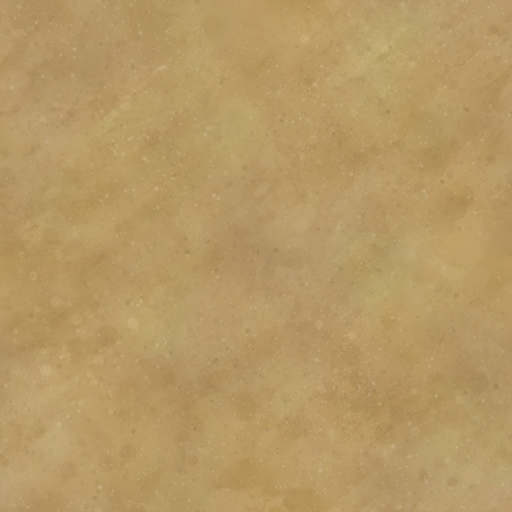
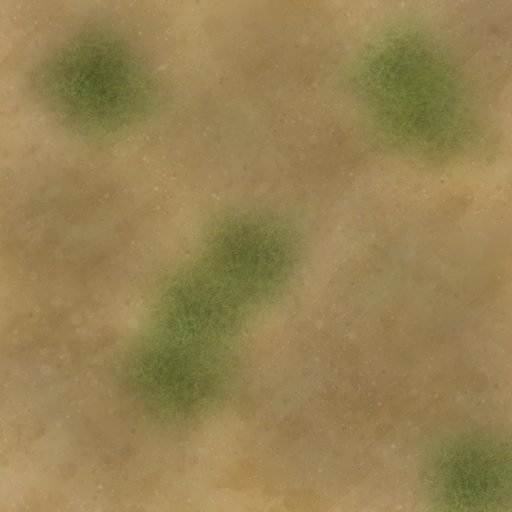
use specular intensity of material

diff --git a/OpenGLFramework/main.cpp b/OpenGLFramework/main.cpp
@@ -146,15 +146,12 @@ public:
             
             texture_ = std::make_shared<Texture>(Image("pattern.png"));
             
-            Texture tex(Image("pattern.png"));
-            Material mat(tex, 7, 20);
-            
-            Texture tex2(Image("plain.png"));
-            Material mat2(tex2, 7, 20);
+            Material colorful(Image("pattern.png"), 7, 10);
+            Material sand(Image("sand.png"), 0, 0);
             
             Mesh pyramid = primitives::makePyramid();
             std::shared_ptr<Node> node = std::make_shared<Node>();
-            node->addComponent(std::make_shared<RenderComponent>(GeometryObject(pyramid), mat));
+            node->addComponent(std::make_shared<RenderComponent>(GeometryObject(pyramid), colorful));
             node->transformation.setTranslation({-1.f,-1.f,-1.f});
             node->transformation.setScale({4,4,4});
             
@@ -166,7 +163,7 @@ public:
             
             Mesh cube = ::obj_from_file("box.obj").toIndexedModel().toMesh();
             std::shared_ptr<Node> node2 = std::make_shared<Node>();
-            node2->addComponent(std::make_shared<RenderComponent>(GeometryObject(cube), mat));
+            node2->addComponent(std::make_shared<RenderComponent>(GeometryObject(cube), colorful));
             node2->transformation.setTranslation({-5,0.5,-2});
             node2->transformation.setRotation(angleAxis<float>(radians(45), {0,1,0}));
             node->addChild(node2);
@@ -176,7 +173,7 @@ public:
             
             Mesh monkey = obj_from_file("monkey.obj").toIndexedModel().toMesh();
             std::shared_ptr<Node> node3 = std::make_shared<Node>();
-            node3->addComponent(std::make_shared<RenderComponent>(GeometryObject(monkey), mat));
+            node3->addComponent(std::make_shared<RenderComponent>(GeometryObject(monkey), colorful));
             Transformation spin;
             spin.rotation = angleAxis(radians(1.0f), {0.0f,1.0f,0.0f});;
             
@@ -192,7 +189,7 @@ public:
             Mesh terrainMesh = terrainMap.toIndexedModel().toMesh();
             
             std::shared_ptr<Node> node4 = std::make_shared<Node>();
-            node4->addComponent(std::make_shared<RenderComponent>(GeometryObject(terrainMesh), mat));
+            node4->addComponent(std::make_shared<RenderComponent>(GeometryObject(terrainMesh), sand));
             node4->transformation.setScale({0.5f,0.5f,0.5f});
             node4->transformation.setTranslation({0,0,0});
             node->addChild(node4);

diff --git a/OpenGLFramework/lkogl/deferred_renderer.cpp b/OpenGLFramework/lkogl/deferred_renderer.cpp
@@ -61,8 +61,8 @@ namespace lkogl {
                 scene::walker::SceneDeepWalker walker;
                 
                 std::vector<lighting::DirectionalLight> directionalLights = {
-                    lighting::DirectionalLight({0.6,0.7,0.9}, 0.9, {1,-1,1}),
-                    lighting::DirectionalLight({0.6,0.7,0.9}, 0.9, {-1,-1,-1}),
+                    lighting::DirectionalLight({0.6,0.7,0.9}, 1.1, {1,-1,1}),
+                    lighting::DirectionalLight({0.6,0.7,0.9}, 1.1, {-1,-1,-1}),
                 };
                 
                 lighting::AmbientLight ambientLight({0.2,0.2,0.2});
@@ -109,7 +109,7 @@ namespace lkogl {
                     StencilCreation stencil(true);
 
                     shader::ProgramUse stencilProg(programs_.deferredStencil_);
-                    BufferTextureUse tus(stencilProg, "uSampler", *buffer_, 2, 2);
+                    BufferTextureUse tus(stencilProg, "uSampler", *buffer_, 0, 0);
                     
                     squareObj.render();
                 }
